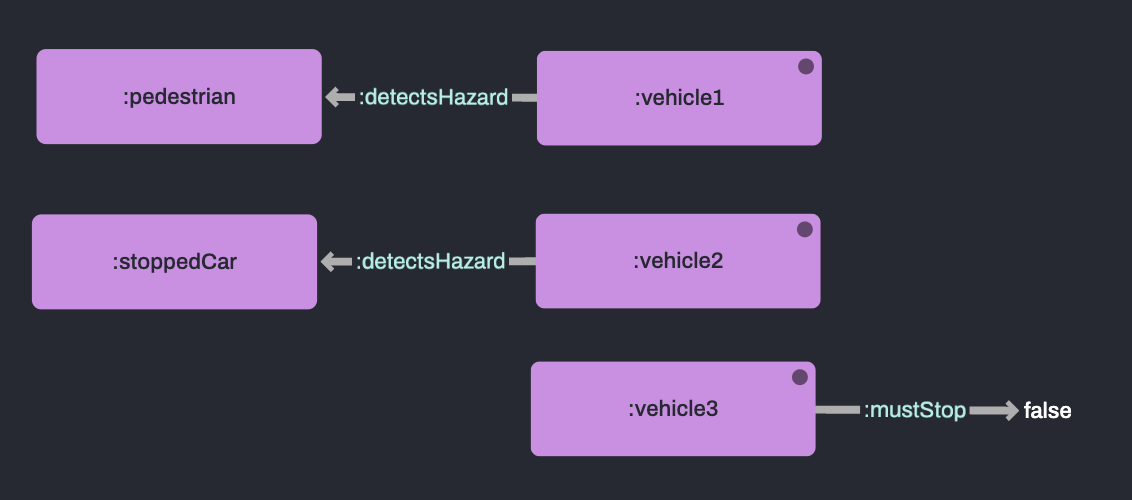
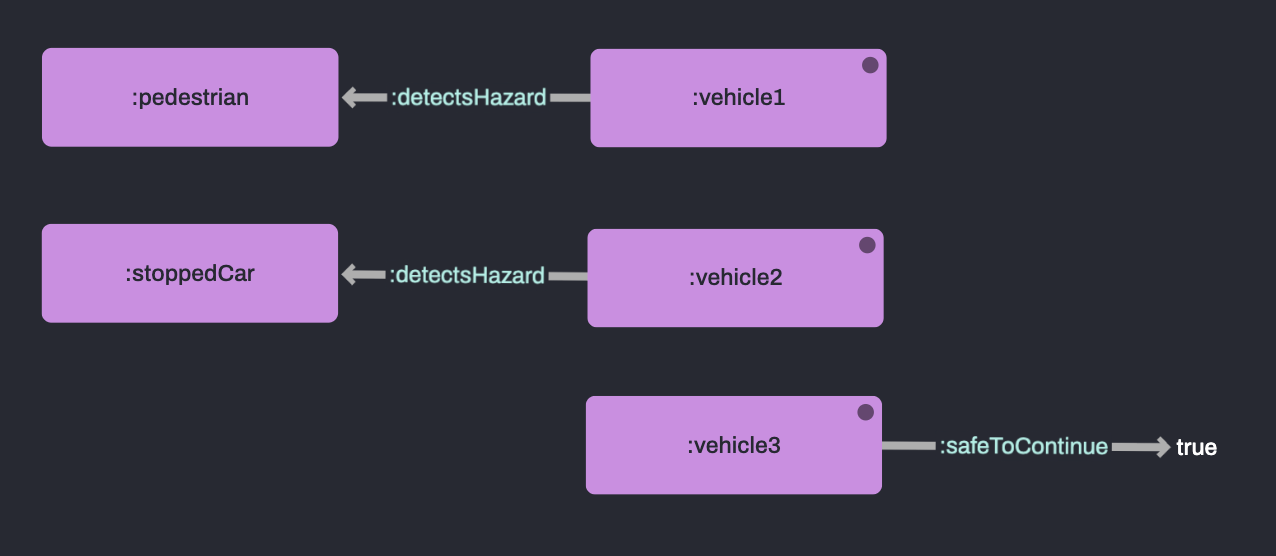
Small changes

diff --git a/3_2-ComplexCalculations/3_2-ComplexCalculations.md b/3_2-ComplexCalculations/3_2-ComplexCalculations.md
@@ -15,7 +15,7 @@ For example, my application requires complex mathematical algorithms to compute 
 
 ## 📖 &nbsp; What Complex Calculations?
 
-Binds calculate an expression and store result in a variable.
+BINDS calculate an expression and store result in a variable.
 
 This can be done with inbuilt RDFox functions or hand written mathematical expressions.
 
@@ -130,108 +130,6 @@ A node is created between two articles that share at least one tag, calculating 
 
 <br>
 <br>
-
-## 👀 &nbsp; info rulestats
-
-Run the command `info rulestats` in the RDFox shell to show information about the rules in your data store.
-
-So far, for this example you will see:
-
-=================== RULES STATISTICS =====================
-|Component|    Nonrecursive rules|    Recursive rules|    Total rules|
-|---------|----------------------|-------------------|---------------|
-|        1|                     1|                  0|              1|
-|        2|                     1|                  0|              1|
-|Total:|                        2|                  0|              2|
-
-We have imported two rules above, so the total rules is 2.
-
-Both are non-recursive (see 3.3 for recursion) which is also reflected in the table.
-
-Since one rule depends on the other, we end up with 2 components (also called layers, or strata)
-
-This can be a great launching point for debugging rules, particularly if the values shown are not what you expect.
-
-Find out more about the `info` command in the docs [here](https://docs.oxfordsemantic.tech/rdfox-shell.html#info).
-
-<br>
-<br>
-
-## 🔍 &nbsp; Unnecessarily complex rules
-
-It can be tempting to write huge rules that match sprawling patterns and infer many heads at once, but this can be deeply inefficient.
-
-Rules should be streamlined, only considering the minimum number of body atoms required to infer the relevant head facts, otherwise computation will be spent matching irrelevant body patterns for some head atoms.
-
-This often means splitting large rules into several parts.
-
-Take these rules for examples:
-
-```
-[?a, :hasNewProp, "new prop"],
-[?x, a, :newClass] :-
-    [?a, :hasProp, "prop" ],
-    [?x, a, :Class ].
-```
-
-Although we can write this as one rule, there is no relation between the atoms involving ?a and ?x.
-
-```
-[?a, :hasNewProp, "new prop"]:-
-    [?a, :hasProp, "prop" ].
-
-[?x, a, :newClass] :-
-    [?x, a, :Class ].
-```
-Here, we're split that rule into two rules that results in the same facts inferred.
-
-We'll use this simple data to show how the rule sets perform differently:
-```
-:a :hasProp "prop" .
-
-:x a :Class .
-```
-
-<br>
-
-## 👀 &nbsp; Run the profiler
-
-Firstly, run `3_2-ComplexCalculations/example2/exScript.rdfox` to see the performance of the combined rule...
-
-<br>
-
-### You should see...
-
-Rule Info
-|   #  |    Reasoning Phase   |   Sample Count  |  Rule Body Match Attempts |   Iterator Operations  |  Rule Body Matches  |    Fresh Facts Produced    |Rule of Head Atom|                               
-|------|----------------------|-----------------|---------------------------|------------------------|---------------------|-------------------|------------------------------|
-|   1|    RuleAdd|      0|             1|             6|           1|            1|          (0) :hasNewProp[?a, "new prop"], :newClass[?x] :- :hasProp[?a, "prop"], :Class[?x] .|
-|   |    |      |             |             |           |            1|          (1) :hasNewProp[?a, "new prop"], :newClass[?x] :- :hasProp[?a, "prop"], :Class[?x] .|
-
-Notice that the reasoning profiles undergoes 6 iterator operations. This is because the combo rule creates a cross product of patterns that it must check to infer each head atom, despite being unrelated.
-
-<br>
-<br>
-
-## 👀 &nbsp; Run the profiler
-
-Secondly, run `3_2-ComplexCalculations/example3/exScript.rdfox` to see the performance of the two separate rules.
-
-<br>
-
-### You should see...
-
-Rule Info
-|   #  |    Reasoning Phase   |   Sample Count  |  Rule Body Match Attempts |   Iterator Operations  |  Rule Body Matches  |    Fresh Facts Produced    |Rule of Head Atom|                               
-|------|----------------------|-----------------|---------------------------|------------------------|---------------------|-------------------|------------------------------|
-|   1|    RuleAdd|      0|             1|             2|           1|            1|          (0) :newClass[?x] :- :Class[?x] .|
-|   1|    RuleAdd|      0|             1|             2|           1|            1|          (0) :hasNewProp[?a, "new prop"] :- :hasProp[?a, "prop"] .|
-
-This time, notice that even though there are more rules imported, the rules only require 2 iterator operations each, for a total of 4.
-
-### A problem of scale
-
-While 6 iterations instead of 4 is almost invisible, this problem scales dangerously with the number of triples and complexity of the rule, causing drastic slowdowns.
 
 ## 🚀 &nbsp; Exercise
 

diff --git a/2_2-NegationAsFailure/2_2-NegationAsFailure.md b/2_2-NegationAsFailure/2_2-NegationAsFailure.md
@@ -28,8 +28,6 @@ Negation as failure is a particularly powerful tool as the absence of data is a 
 
 ### On-device
 
-<br>
-
 To encode real-world decision-making rules, map dependencies, repair data, etc.
 
 <br>
@@ -54,7 +52,7 @@ To determine complex compatibilities, comply with schematics and regulations, si
 The following rule checks to see whether a vehicle's onboard sensors have detected a red light and, if not, allows the vehicle to continue moving.
 
 ```
-[?vehicle, :mustStop, false] :-
+[?vehicle, :safeToContinue, true] :-
     [?vehicle, a, :Vehicle] ,
     NOT ( 
         [?vehicle, :detectsLight, :red]
@@ -87,6 +85,7 @@ Run `2_2-NegationAsFailure/example/exScript.rdfox` to see the results of this ru
 === Vehicles that may continue to move ===
 
 :vehicle2
+<br>
 :vehicle3
 
 <br>
@@ -116,7 +115,7 @@ This opens up the possibility for more general negation patterns to be included.
 The following rule checks to see whether a vehicle's onboard sensors have detected **any hazard** and, if not, allows the vehicle to continue moving.
 
 ```
-[?vehicle, :mustStop, false] :-
+[?vehicle, :safeToContinue, true] :-
     [?vehicle, a, :Vehicle] ,
     NOT EXISTS ?hazard IN (
         [?vehicle, :detectsHazard, ?hazard ]
@@ -166,7 +165,7 @@ Therefore, the scope of these variables must be local to the negation atom. They
 
 Negation remains consistent even when new data means old facts are no longer true.
 
-For example, if vehicle3 detects a hazard, the fact `:vehicle3 :mustStop false` will be retracted.
+For example, if vehicle3 detects a hazard, the fact `:vehicle3 :safeToContinue true` will be retracted.
 
 In the following script we'll add this data to show Incremental Retraction in action:
 
@@ -191,7 +190,7 @@ now run `2_2-NegationAsFailure/example3/exScript.rdfox` to add the new data and 
 
 *0 results*
 
-This is because `:vehicle3 :mustStop false` has now been retracted - it no longer exists in our store.
+This is because `:vehicle3 :safeToContinue true` has now been retracted - it no longer exists in our store.
 
 <br>
 <br>
@@ -200,7 +199,7 @@ This is because `:vehicle3 :mustStop false` has now been retracted - it no longe
 
 With Negation and Aggregation, it is possible to create infinite reasoning cycles.
 
-While some types of cycles are allowed and are in fact incredibly useful (see 3.2), rules sets cannot be imported if the cycles they create involve Negation or Aggregation as they lead to inferred facts being updated with every iteration. 
+While some types of cycles are allowed and are in fact incredibly useful (see 3.3), rules sets cannot be imported if the cycles they create involve Negation or Aggregation as they lead to inferred facts being updated with every iteration. 
 
 Take the following rule as an example.
 
@@ -321,7 +320,7 @@ We do this by introducing a new proxy-relationship as follows:
 
 ## 🚀 &nbsp; Exercise
 
-Complete the rule set `2_2-NegationAsFailure/incompleteRules.dlog` to 
+Complete the rule set `2_2-NegationAsFailure/incompleteRules.dlog` to indicate whether the vehicle is safe to turn left or right, or stop at any given time.
 
 Here is a representative sample of the data in `2_2-NegationAsFailure/exercise/data.ttl`.
 

diff --git a/2_3-BlankNodes/2_3-BlankNodes.md b/2_3-BlankNodes/2_3-BlankNodes.md
@@ -174,21 +174,6 @@ Open this query in the [RDFox Explorer](http://localhost:12110/console/datastore
 <br>
 <br>
 
-## 🔍 &nbsp; MD5 Encoding
-
-As a practical alternative to SKOLEM, the MD5 hash generator function sometimes is instead to create an ID for a node.
-
-MD5 creates IDs more efficiently than SKOLEM but is non-reversible, meaning retraction of facts is vastly less efficient.
-
-Additionally, it is not strictly 1-1, so it is possible, albeit unlikely, to have two different inputs create the same output, 
-
-MD5 is a function not a tuple table, so the output must be bound to a new variable, and it's input must be strings.
-
-`BIND ( MD5("stringIn") AS ?stringOut )`
-
-<br>
-<br>
-
 ## 🚀 &nbsp; Exercise
 
 Complete the rule `2_3-BlankNodes/incompleteRules.dlog` to monitor the average temperature of several liquid baths as they change over time.
@@ -276,9 +261,21 @@ Run the script below to verify the results.
 <br>
 <br>
 
-## 👏 &nbsp; Bonus exercise
+## 👏 &nbsp; Bonus exercise - MD5 Encoding
+
+As a practical alternative to SKOLEM, the MD5 hash generator function sometimes is instead to create an ID for a node.
+
+MD5 creates IDs more efficiently than SKOLEM but is non-reversible, meaning retraction of facts is vastly less efficient.
+
+Additionally, it is not strictly 1-1, so it is possible, albeit unlikely, to have two different inputs create the same output, 
+
+MD5 is a function not a tuple table, so the output must be bound to a new variable, and it's input must be strings.
+
+<br>
 
 Write a rule that creates a similar node for each bath using the `MD5` function instead of `SKOLEM`.
+
+`BIND ( MD5("stringIn") AS ?stringOut )`
 
 Write a query [in the console](http://localhost:12110/console/datastores/sparql?datastore=default) to validate you work.
 

diff --git a/3_3-PropertyPaths/3_3-PropertyPaths.md b/3_3-PropertyPaths/3_3-PropertyPaths.md
@@ -73,8 +73,8 @@ The following rules recursively detect members of Alice's network - including pe
     [:Alice, :knows, ?person].
 
 [?person2, a, :MemberOfAlicesNetwork] :-
-    [?person1, :knows, ?person2],
-    [?person1, a, :MemberOfAlicesNetwork].
+    [?person1, a, :MemberOfAlicesNetwork] ,
+    [?person1, :knows, ?person2] .
 ```
 
 Here is the data we'll be using to show this:
